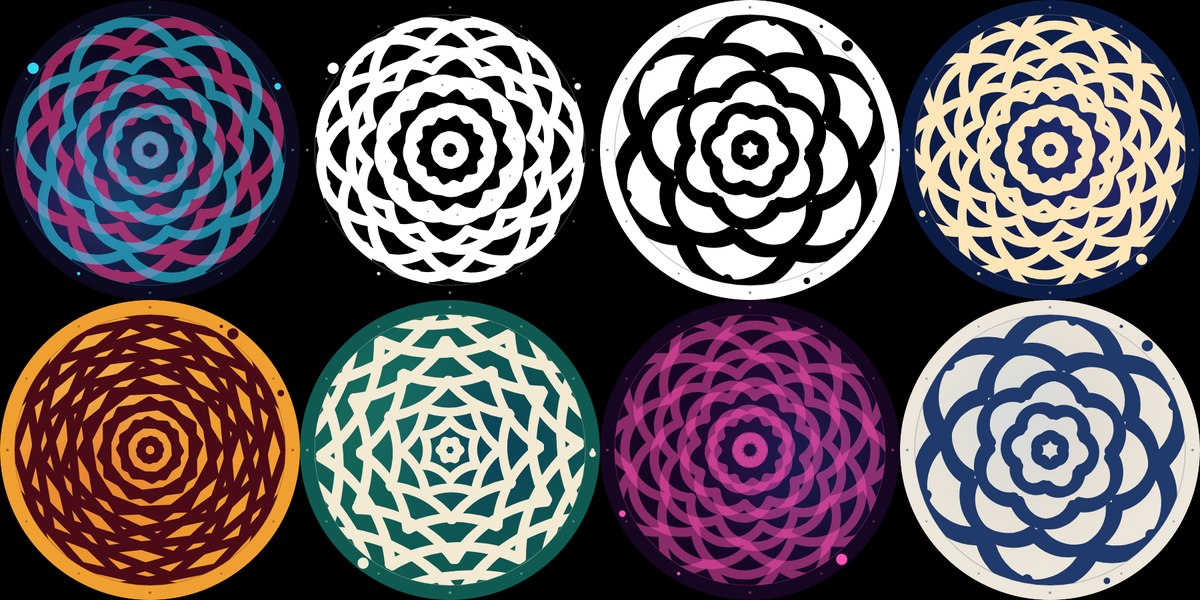
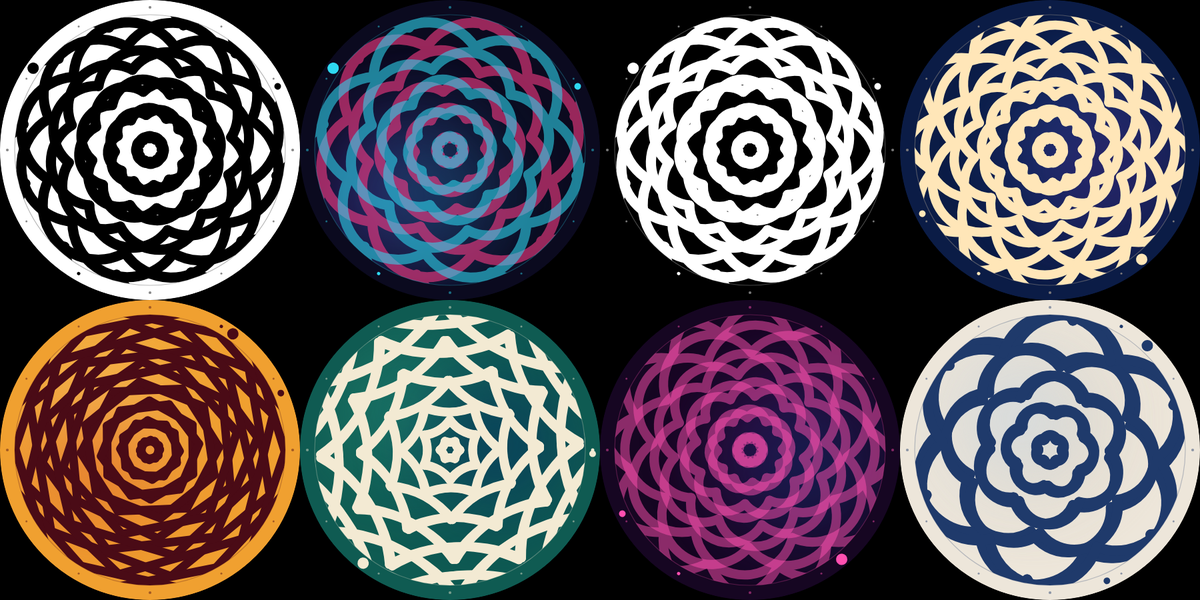
Interfence-Morph: Black on White is the default palette
Moved to option 0, so new installs and the picker thumbnail show black
patterns on white.

Claude-Session: https://claude.ai/code/session_01KJ3go6Y4QGsUvwFFpG81FM

Changed region(s): [[0.0, 0.0, 0.7708, 0.51]]

diff --git a/faces/interfence-morph/generate_xml.py b/faces/interfence-morph/generate_xml.py
@@ -60,9 +60,9 @@ BG, GLOW_A, GLOW_B, LOWER, UPPER = (f'[CONFIGURATION.{CONFIG}.{i}]' for i in ran
 #          the alpha stacks and the colour deepens
 # Beads and rim marks use the upper disc colour, so they read on any ground.
 THEMES = [
+    ('theme_black_white', 'Black on White', 'same', ['#FFFFFF', '#FFFFFF', '#FFFFFF', '#000000', '#000000']),
     ('theme_thursday', 'Thursday Afternoon', 'dual', ['#0B0A1F', '#3B1C70', '#940D4A63', '#FF3D86', '#2ED8F0']),
     ('theme_white_black', 'White on Black', 'same', ['#000000', '#000000', '#000000', '#FFFFFF', '#FFFFFF']),
-    ('theme_black_white', 'Black on White', 'same', ['#FFFFFF', '#FFFFFF', '#FFFFFF', '#000000', '#000000']),
     ('theme_apollo', 'Apollo', 'same', ['#0B1C46', '#1E3F82', '#2C1F63', '#FFE6B8', '#FFE6B8']),
     ('theme_neroli', 'Neroli', 'same', ['#F0A030', '#F8C45C', '#E2742A', '#4A0B16', '#4A0B16']),
     ('theme_discreet', 'Discreet Music', 'same', ['#0F5B52', '#1F7C6B', '#0B435A', '#F3EAD3', '#F3EAD3']),

diff --git a/faces/interfence-morph/notes.md b/faces/interfence-morph/notes.md
@@ -108,9 +108,9 @@ keeps the transparency.
 
 | palette | kind | ground | discs | crossing |
 |---|---|---|---|---|
-| Thursday Afternoon (default) | dual, 58% | indigo | rose below, cyan above | cyan over rose: periwinkle |
+| Black on White (default) | same | white | black | merges |
+| Thursday Afternoon | dual, 58% | indigo | rose below, cyan above | cyan over rose: periwinkle |
 | White on Black | same | black | white | merges |
-| Black on White | same | white | black | merges |
 | Apollo | same | night navy | moon cream | merges |
 | Neroli | same | saffron | oxblood | merges |
 | Discreet Music | same | sea teal | bone | merges |
@@ -157,3 +157,6 @@ eight palettes at assorted times.
 - Check that 156 expression-driven arcs hold the frame rate while the seconds
   wheel turns, and that the XML loads promptly. At about 500 KB it is larger
   than the other promoted faces.
+
+The default palette became Black on White on 2026-10-08, after Patrick's
+review; it is option 0, so the picker thumbnail shows it.
